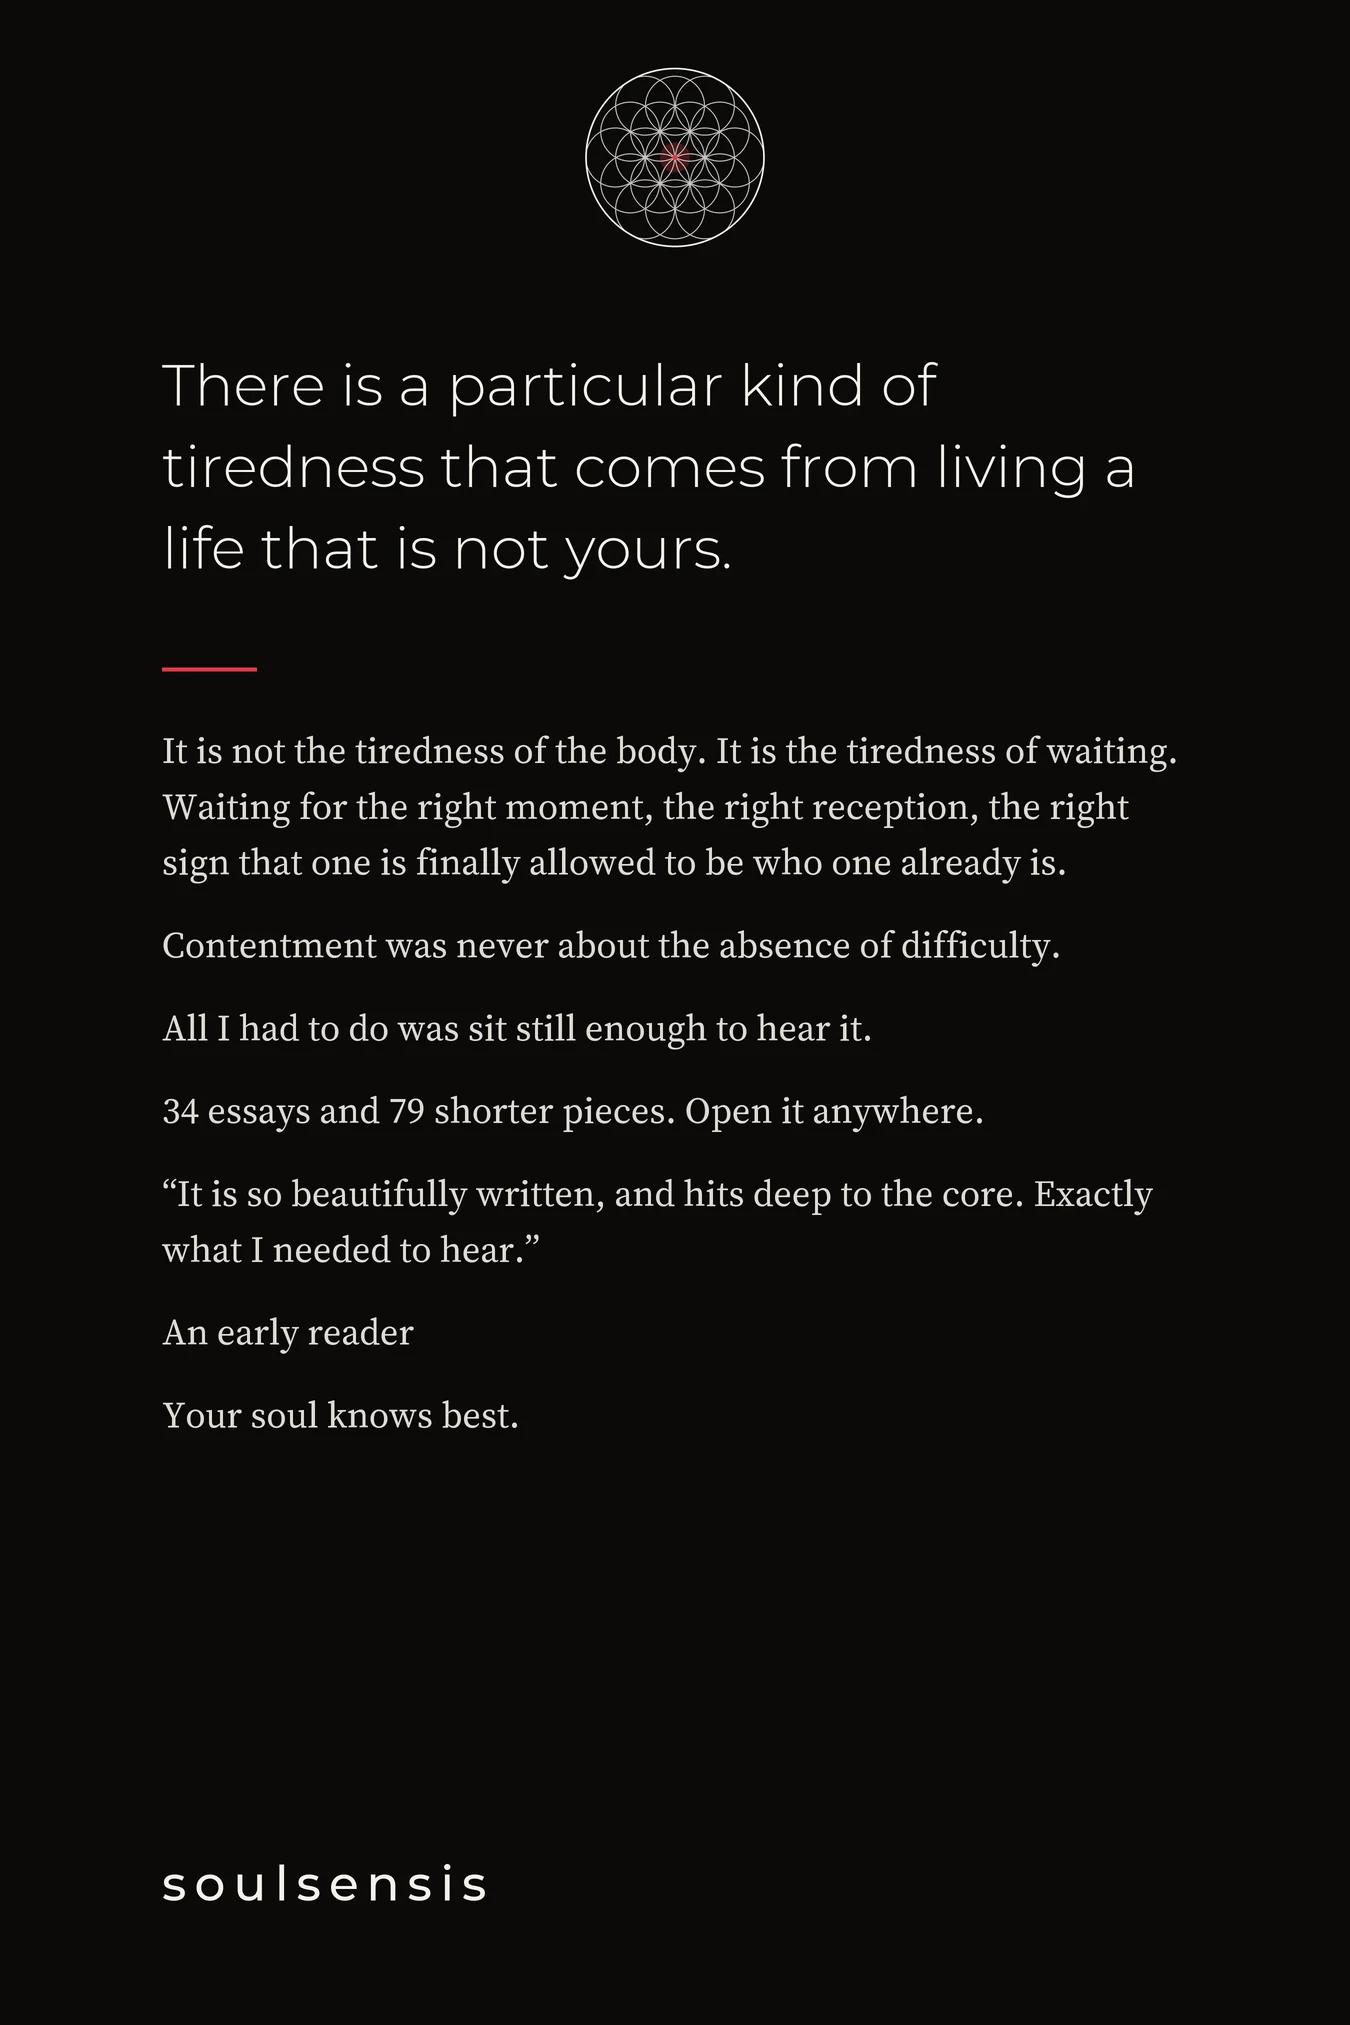
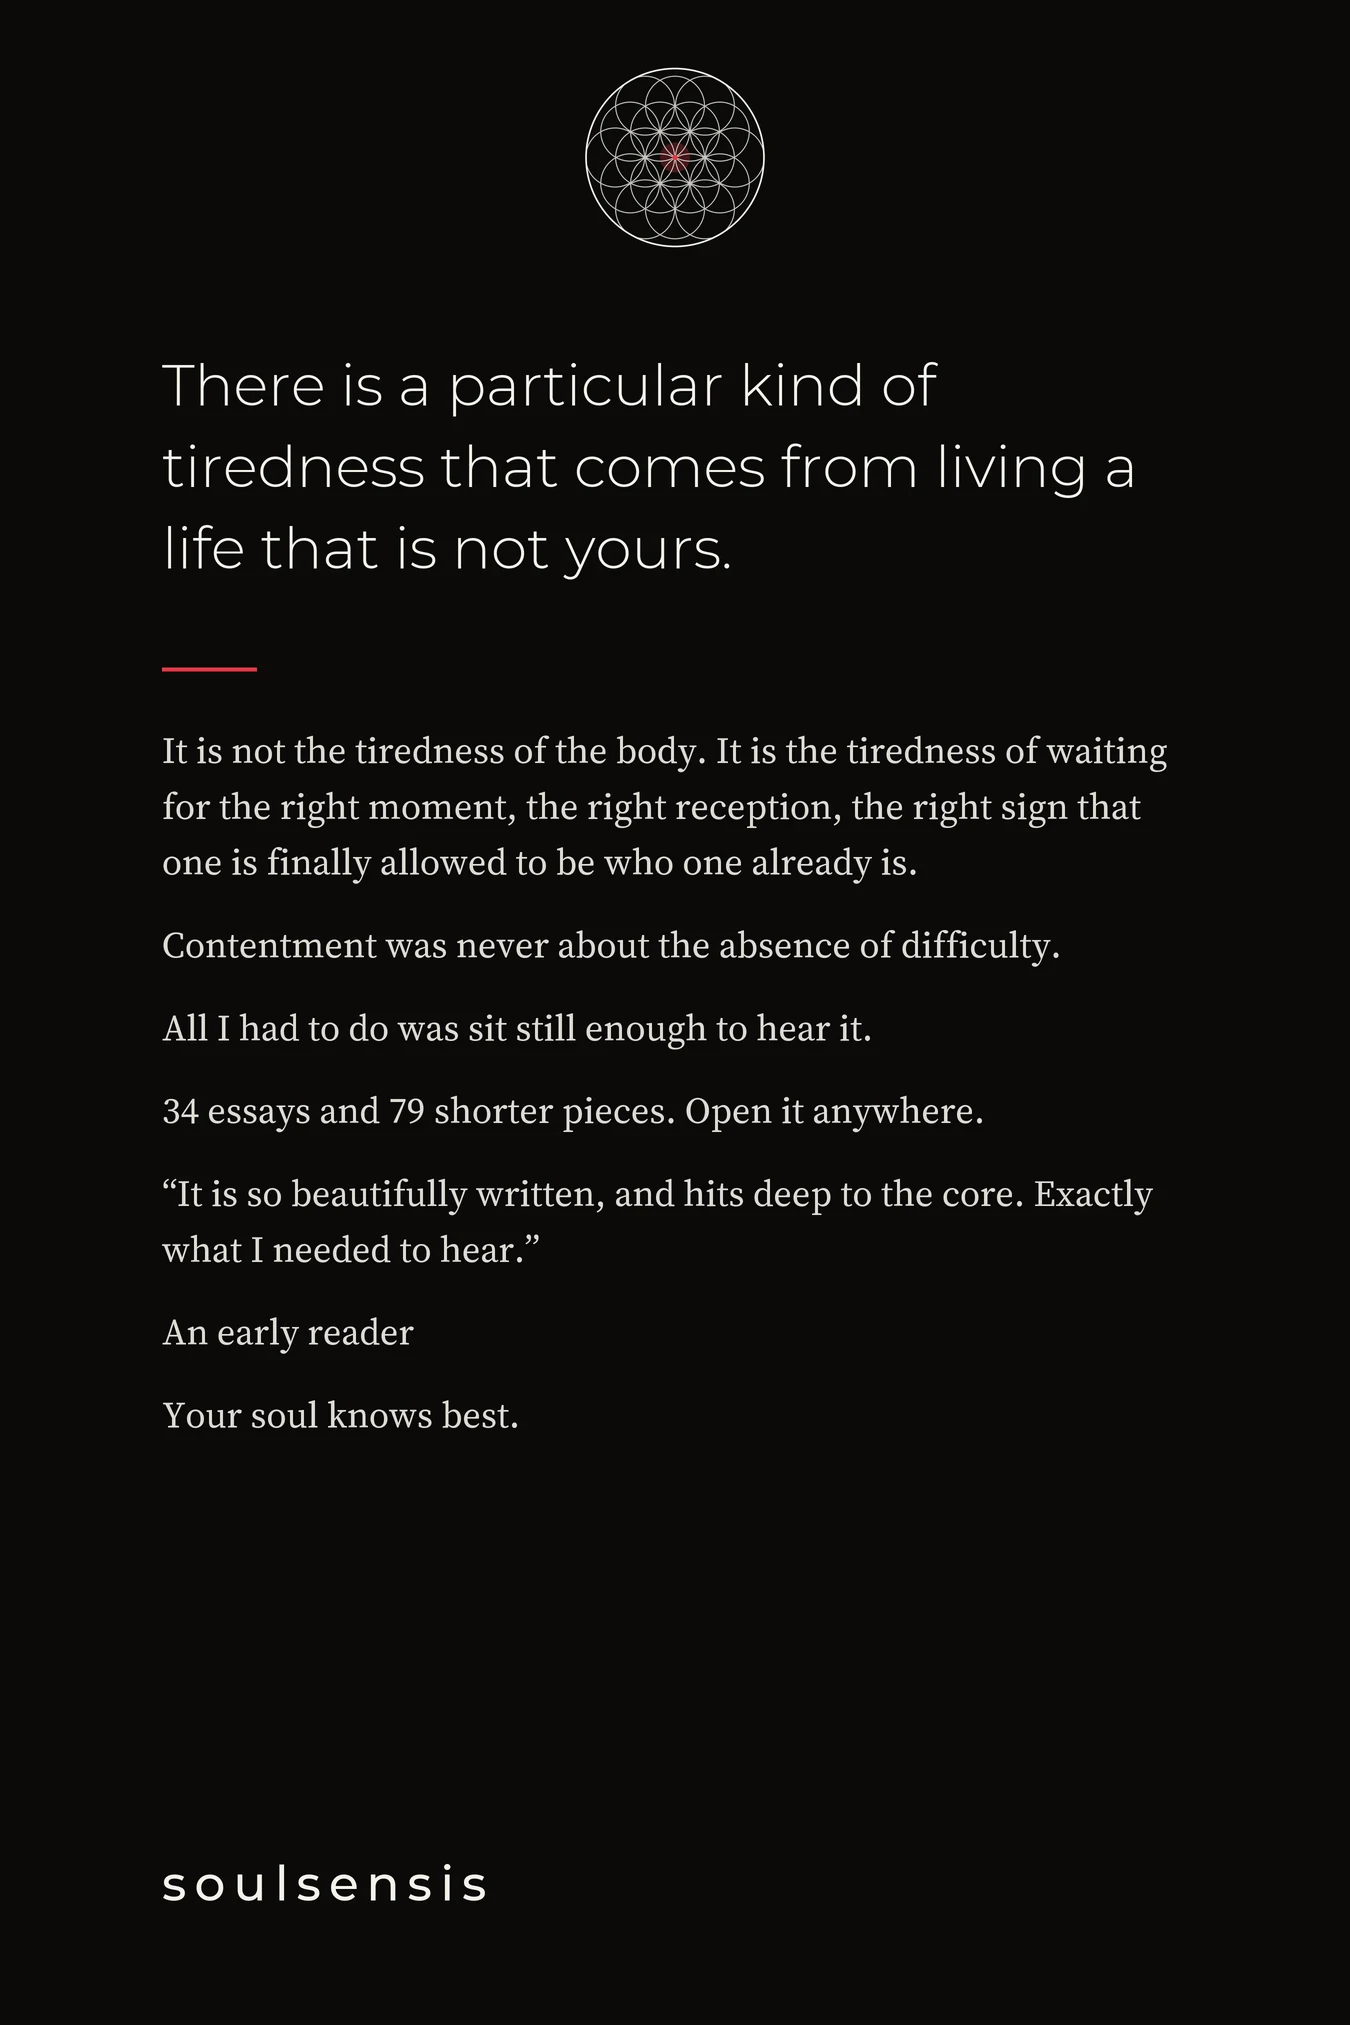
Site: rebuilt

Changed region(s): [[0.1244, 0.3733, 0.84, 0.4356]]

diff --git a/book.html b/book.html
@@ -303,7 +303,7 @@ body > footer .help a { display: inline; min-height: 0; text-decoration: underli
     <p class="eyebrow" id="about-h">On the back</p>
     <svg class="flower" data-draw viewBox="-64 -64 128 128" aria-hidden="true"><g data-mark fill="none" stroke="#F5F2EA" stroke-width=".28"></g><circle r="1.9" fill="#E63946"/></svg>
     <p class="hook" id="say" data-lit>There is a particular kind of tiredness that comes from living a life that is not yours.</p>
-    <p class="reading">It is not the tiredness of the body. It is the tiredness of waiting. Waiting for the right moment, the right reception, the right sign that one is finally allowed to be who one already is.</p>
+    <p class="reading">It is not the tiredness of the body. It is the tiredness of waiting for the right moment, the right reception, the right sign that one is finally allowed to be who one already is.</p>
     <p class="reading">Contentment was never about the absence of difficulty.</p>
     <p class="reading">All I had to do was sit still enough to hear it.</p>
     <p class="reading"><!--COUNTS-->34 essays and 79 shorter pieces. Open it anywhere.<!--/COUNTS--></p>
@@ -349,7 +349,7 @@ body > footer .help a { display: inline; min-height: 0; text-decoration: underli
         <div class="act"><!--BUY_PAPERBACK--><span class="tag" data-soon-tag>Coming soon</span><!--/BUY_PAPERBACK--><span class="where">Amazon</span></div>
       </div>
       <div class="format" id="kindle">
-        <h3>Kindle</h3><p class="price" data-au="A$9.99" data-us="US$6.99">A$9.99<small>US$6.99</small></p>
+        <h3>Kindle</h3><p class="price" data-au="A$4.99" data-us="US$2.99">A$4.99<small>US$2.99</small></p>
         <p>The whole book on your phone, Kindle or tablet. Buy it on your own country's Amazon; the price is set in your currency.</p>
         <div class="act"><!--BUY_KINDLE--><span class="tag" data-soon-tag>Coming soon</span><!--/BUY_KINDLE--><span class="where">Amazon</span></div>
       </div>
